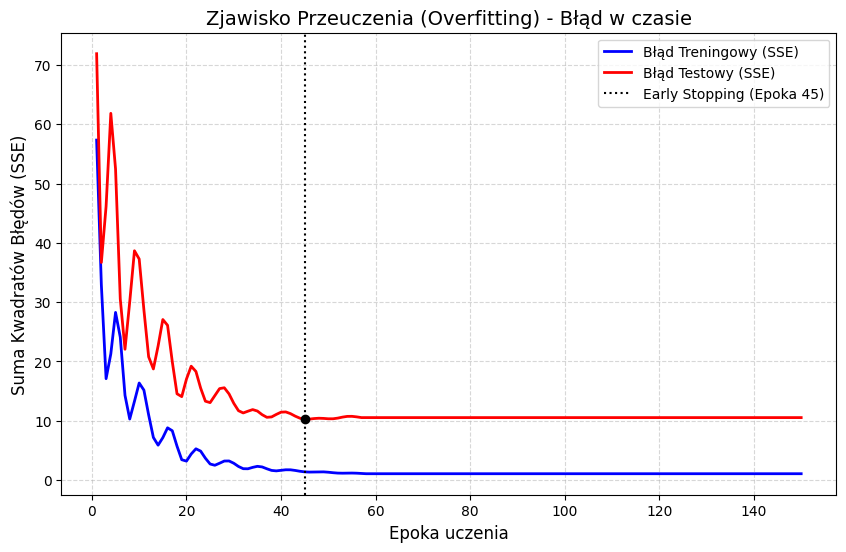
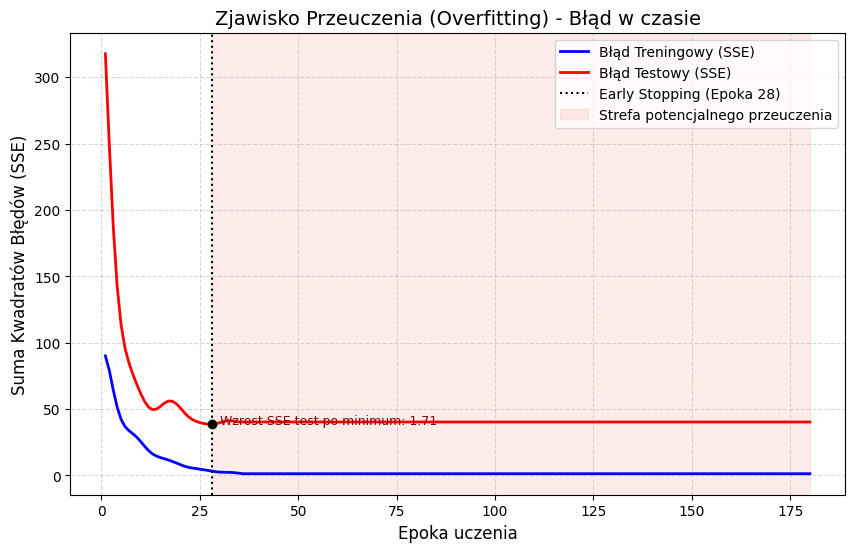
Zmiany w przeuczeniu

diff --git a/projektAI.tex b/projektAI.tex
@@ -939,70 +939,6 @@ za pomocą zbioru walidacyjnego/testowego i stosowania \texttt{early stopping}.
 Najlepszy punkt pracy sieci odpowiada minimum błędu testowego,
 niekoniecznie ostatniej epoce treningu.
 
-\subsection{Eksperyment nr 6}
-
-Eksperyment nr 6 jest rozwinięciem eksperymentu nr 5 i bada przeuczenie
-w warunkach celowo pogorszonej jakości danych uczących.
-Do zbioru treningowego wprowadzono szum etykiet, odwracając część klas,
-co symuluje błędne oznaczenia w danych rzeczywistych.
-
-\subsubsection*{Założenia eksperymentu}
-Konfiguracja eksperymentu pozostaje możliwie zbliżona do eksperymentu nr 5,
-aby porównanie było uczciwe:
-\begin{itemize}[label={\textbullet}]
-\item ten sam podział danych: trening \texttt{30\%}, test \texttt{70\%},
-\item ta sama architektura modelu: \texttt{K1 = 8}, \texttt{K2 = 8},
-\item ten sam tryb monitorowania błędów \texttt{SSE} po każdej epoce,
-\item dodatkowo: odwrócenie \texttt{40\%} etykiet w zbiorze treningowym.
-\end{itemize}
-
-Implementację eksperymentu przedstawiono na listingu \ref{lst:exp6_przeuczenie_py}.
-
-\lstinputlisting[
-language=Python,
-inputencoding=utf8/cp1250,
-firstline=1,
-lastline=240,
-breaklines=true,
-numbers=left,
-frame=single,
-caption={Skrypt eksperymentu nr 6: przeuczenie przy zaszumionych etykietach (\texttt{exp6\_przeuczenie.py})},
-label={lst:exp6_przeuczenie_py}
-]{exp6_przeuczenie.py}
-
-Na listingu \ref{lst:exp6_przeuczenie_py} skrypt:
-\begin{itemize}[label={\textbullet}]
-\item tworzy zbiór uczący i testowy jak w eksperymencie nr 5,
-\item celowo modyfikuje część etykiet uczących (szum klas),
-\item uczy sieć krokowo i zapisuje przebiegi \texttt{SSE} dla treningu i testu,
-\item wyznacza epokę minimalnego błędu testowego,
-\item rysuje krzywe błędu pokazujące wpływ zaszumienia na przeuczenie.
-\end{itemize}
-
-Wyniki eksperymentu przedstawiono na rysunku \ref{fig:exp6_overfitting_noise_curve}.
-
-\begin{figure}[ht]
-\centering
-\includegraphics[width=0.9\textwidth]{Fig.6_Przeuczenie_kongres_szum.png}
-\caption{Eksperyment nr 6: przebieg błędu \texttt{SSE} przy zaszumionych etykietach uczących}
-\label{fig:exp6_overfitting_noise_curve}
-\end{figure}
-
-\textbf{Różnica względem eksperymentu nr 5 i jej przyczyna:}
-\begin{itemize}[label={\textbullet}]
-\item W eksperymencie nr 5 model uczył się na etykietach zgodnych z rzeczywistą klasą.
-Przeuczenie wynikało głównie z relacji pojemności modelu do małej liczby próbek.
-\item W eksperymencie nr 6 model otrzymuje dodatkowo sprzeczne informacje (błędne etykiety),
-więc część procesu uczenia jest skierowana na zapamiętywanie przypadkowego szumu.
-\item Skutkiem jest zwykle szybsze pogorszenie błędu testowego i mniejsza stabilność
-uogólniania niż w eksperymencie nr 5.
-\end{itemize}
-
-\textbf{Wniosek:} eksperyment nr 6 pokazuje, że jakość etykiet jest krytyczna dla jakości modelu.
-Nawet przy tej samej architekturze i hiperparametrach obecność szumu etykiet
-silniej nasila przeuczenie. W praktyce oznacza to potrzebę czyszczenia danych,
-kontroli etykiet oraz ostrożniejszego doboru momentu \texttt{early stopping}.
-
 
 \section{Podsumowanie i wnioski}
 

diff --git a/exp5_przeuczenie.py b/exp5_przeuczenie.py
@@ -10,17 +10,17 @@ from mlp_core import mlp_m_3w # IMPORT NASZEJ SIECI
 x, y_t, x_norm, x_n_s, y_t_s = hkl.load('kongres.hkl')
 X_all, Y_all = x_norm.T, y_t.T     
 
-# Aby wywołać przeuczenie: dajemy mało danych do nauki (30%) i dużo do testów (70%)
+# Aby wywołać przeuczenie: dajemy bardzo mało danych do nauki i dużo do testów
 X_train, X_test, Y_train, Y_test = train_test_split(
-    X_all, Y_all, test_size=0.7, stratify=Y_all, random_state=42
+    X_all, Y_all, test_size=0.8, stratify=Y_all, random_state=42
 )
 
 # Wracamy do macierzy [cechy, próbki]
 x_tr, y_tr = X_train.T, Y_train.T
 x_te, y_te = X_test.T, Y_test.T
 
-# 2. Parametry sprzyjające przeuczeniu (zbyt duża sieć)
-K1_fixed, K2_fixed = 8, 8
+# 2. Parametry sprzyjające przeuczeniu (duża pojemność modelu)
+K1_fixed, K2_fixed = 12, 12
 lr_fixed = 1e-3
 mc_fixed = 0.9
 
@@ -28,7 +28,7 @@ mc_fixed = 0.9
 err_goal = 0.00001 
 max_epoch_single = 1 
 disp_freq = 10 
-liczba_epok_total = 150 # Ile kroków zrobimy łącznie
+liczba_epok_total = 180 # Dłuższa obserwacja ułatwia uchwycenie przeuczenia
 
 print("--- EKSPERYMENT 5: ZJAWISKO PRZEUCZENIA (OVERFITTING) ---")
 print(f"Rozpoczynam badanie krok po kroku przez {liczba_epok_total} epok...")
@@ -53,21 +53,38 @@ for epoka in range(liczba_epok_total):
 
 print("Zakończono.\n")
 
+historia_train_sse = np.array(historia_train_sse)
+historia_test_sse = np.array(historia_test_sse)
+
 # 3. Rysowanie wykresu Overfittingu
 plt.figure(figsize=(10, 6))
 
-plt.plot(range(1, liczba_epok_total + 1), historia_train_sse, color='blue', linewidth=2, label='Błąd Treningowy (SSE)')
-plt.plot(range(1, liczba_epok_total + 1), historia_test_sse, color='red', linewidth=2, label='Błąd Testowy (SSE)')
+epoki = np.arange(1, liczba_epok_total + 1)
+plt.plot(epoki, historia_train_sse, color='blue', linewidth=2, label='Błąd Treningowy (SSE)')
+plt.plot(epoki, historia_test_sse, color='red', linewidth=2, label='Błąd Testowy (SSE)')
 
 plt.title('Zjawisko Przeuczenia (Overfitting) - Błąd w czasie', fontsize=14)
 plt.xlabel('Epoka uczenia', fontsize=12)
 plt.ylabel('Suma Kwadratów Błędów (SSE)', fontsize=12)
 
 # Zaznaczenie momentu, w którym należy przerwać naukę (najniższy błąd testowy)
-optymalna_epoka = np.argmin(historia_test_sse) + 1
-najmniejszy_blad = min(historia_test_sse)
+optymalna_epoka = int(np.argmin(historia_test_sse) + 1)
+najmniejszy_blad = float(np.min(historia_test_sse))
 plt.axvline(optymalna_epoka, color='black', linestyle=':', label=f'Early Stopping (Epoka {optymalna_epoka})')
 plt.plot(optymalna_epoka, najmniejszy_blad, 'ko') # Czarna kropka w optimum
+
+# Podświetlamy obszar po minimum błędu testowego jako strefę przeuczenia
+plt.axvspan(optymalna_epoka, liczba_epok_total, color='salmon', alpha=0.15, label='Strefa potencjalnego przeuczenia')
+
+if optymalna_epoka < liczba_epok_total:
+    wzrost_po_min = historia_test_sse[-1] - najmniejszy_blad
+    plt.text(
+        optymalna_epoka + 2,
+        najmniejszy_blad,
+        f'Wzrost SSE test po minimum: {wzrost_po_min:.2f}',
+        fontsize=9,
+        color='darkred'
+    )
 
 plt.legend(loc="upper right")
 plt.grid(True, linestyle='--', alpha=0.5)
